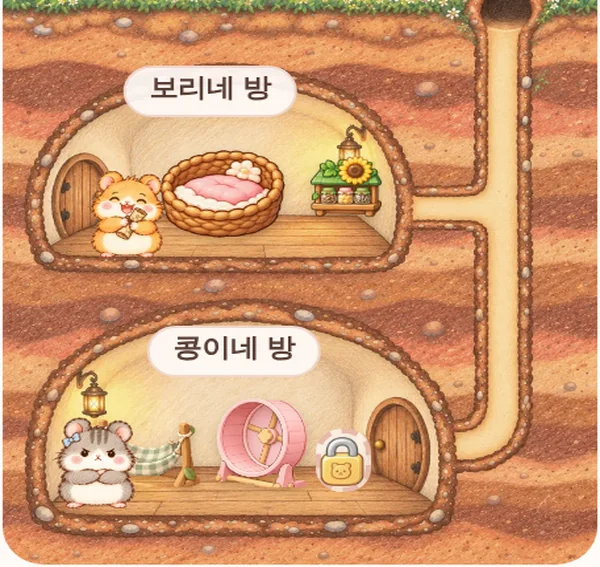
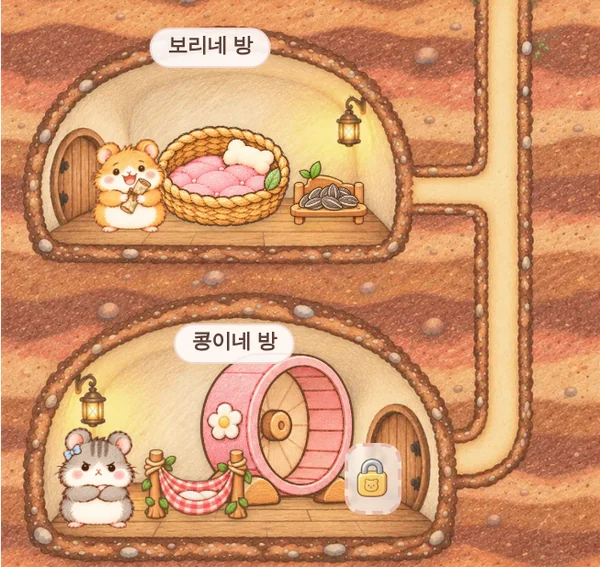
햄스터 마을: 시즌1 최고 레벨 25, 마음 게이지·지도·꾸미기 편집 소개, 새 크레용 가구 화면
Claude-Session: https://claude.ai/code/session_01FjVtWbfWVbM9o2PnH17oAz

diff --git a/hamster-village.html b/hamster-village.html
@@ -187,7 +187,7 @@ html{scroll-padding-top:96px}
         <div>
           <p class="intro">작은 햄스터들과 함께 재료를 합치고, 부탁을 들어주고, 마을을 꾸며 나가는 포근한 머지 게임.</p>
           <ul class="facts" aria-label="게임 정보">
-            <li>머지 퍼즐</li><li>마을 꾸미기</li><li>주민 이야기</li><li class="season">시즌 1 · 최고 레벨 30</li>
+            <li>머지 퍼즐</li><li>마을 꾸미기</li><li>주민 이야기</li><li class="season">시즌 1 · 최고 레벨 25</li>
           </ul>
         </div>
         <div class="hero-cta">
@@ -224,9 +224,9 @@ html{scroll-padding-top:96px}
           <div>
             <span class="step-no" aria-hidden="true">3</span>
             <h3>마을 꾸미기</h3>
-            <p>모은 코인으로 주민의 방에 침대와 간식 선반을 놓아 주세요. 같은 자리도 여러 스타일 중에서 골라 꾸밀 수 있어요.</p>
+            <p>모은 코인으로 주민의 방에 침대와 간식 선반을 놓아 주세요. 크레용으로 그린 가구를 여러 스타일 중에서 고르고, 가구와 주민을 원하는 자리로 옮겨 크기와 표정까지 바꿀 수 있어요.</p>
           </div>
-          <div class="step-img"><img src="assets/hamster/crop-decor.webp?v=2" width="600" height="567" loading="lazy" decoding="async" alt="바구니 침대와 간식 선반이 놓인 보리네 방"></div>
+          <div class="step-img"><img src="assets/hamster/crop-decor.webp?v=3" width="600" height="567" loading="lazy" decoding="async" alt="바구니 침대와 해바라기씨 선반이 놓인 보리네 방, 분홍 쳇바퀴와 체크무늬 해먹이 놓인 콩이네 방"></div>
         </li>
       </ol>
     </div>
@@ -258,7 +258,7 @@ html{scroll-padding-top:96px}
       <ul class="shots">
         <li class="shot"><figure><div class="frame"><img src="assets/hamster/shot-board.webp?v=2" width="640" height="1243" loading="lazy" decoding="async" alt="주문판과 머지 보드, 하단 메뉴가 보이는 햄스터 마을 기본 화면"></div><figcaption><b>머지 보드</b><span>재료를 꺼내고 합치는 기본 화면</span></figcaption></figure></li>
         <li class="shot"><figure><div class="frame"><img src="assets/hamster/shot-orders.webp?v=2" width="720" height="524" loading="lazy" decoding="async" alt="콩이와 보리가 재료를 부탁하는 주문판과 그 아래 머지 보드"></div><figcaption><b>주문판</b><span>보리와 콩이의 부탁</span></figcaption></figure></li>
-        <li class="shot"><figure><div class="frame"><img src="assets/hamster/shot-decor.webp?v=2" width="640" height="1243" loading="lazy" decoding="async" alt="땅 위 마을과 땅속 보리네 방, 콩이네 방이 보이는 마을 꾸미기 화면"></div><figcaption><b>마을 꾸미기</b><span>땅속 방부터 하나씩 꾸며요</span></figcaption></figure></li>
+        <li class="shot"><figure><div class="frame"><img src="assets/hamster/shot-decor.webp?v=3" width="640" height="1243" loading="lazy" decoding="async" alt="땅 위 마을과 땅속 보리네 방, 콩이네 방이 보이는 마을 꾸미기 화면"></div><figcaption><b>마을 꾸미기</b><span>땅속 방부터 하나씩 꾸며요</span></figcaption></figure></li>
       </ul>
     </div>
   </section>
@@ -267,12 +267,14 @@ html{scroll-padding-top:96px}
   <section aria-labelledby="season-title">
     <div class="wrap narrow">
       <div class="season-box">
-        <div class="lv-badge" aria-hidden="true"><small>LV</small><strong>30</strong></div>
+        <div class="lv-badge" aria-hidden="true"><small>LV</small><strong>25</strong></div>
         <div>
           <h2 id="season-title">시즌 1</h2>
-          <p class="lead">시즌 1은 레벨 30까지 즐길 수 있어요.</p>
+          <p class="lead">시즌 1은 레벨 25까지 즐길 수 있어요.</p>
           <ul>
             <li>부탁을 들어주고 마을을 꾸미다 보면 주민들의 이야기가 하나씩 열려요.</li>
+            <li>부탁을 들어줄수록 주민의 마음이 차오르고, 마음이 가득 차면 선물을 받아요. 선물을 받을수록 주민마다 작은 능력도 생겨요.</li>
+            <li>보리가 가져온 할머니의 지도에서 흐릿한 곳이 하나씩 밝혀져요.</li>
             <li>레벨이 오를 때마다 보리의 산책길에서 선물을 받아요.</li>
             <li>새 이웃이 언제, 누가 찾아올지는 직접 플레이하며 확인해 보세요.</li>
           </ul>
